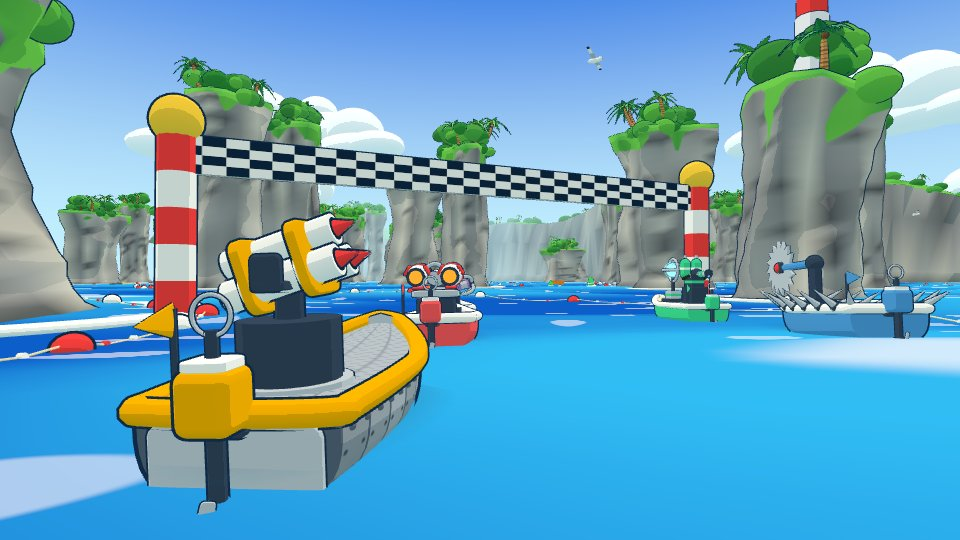
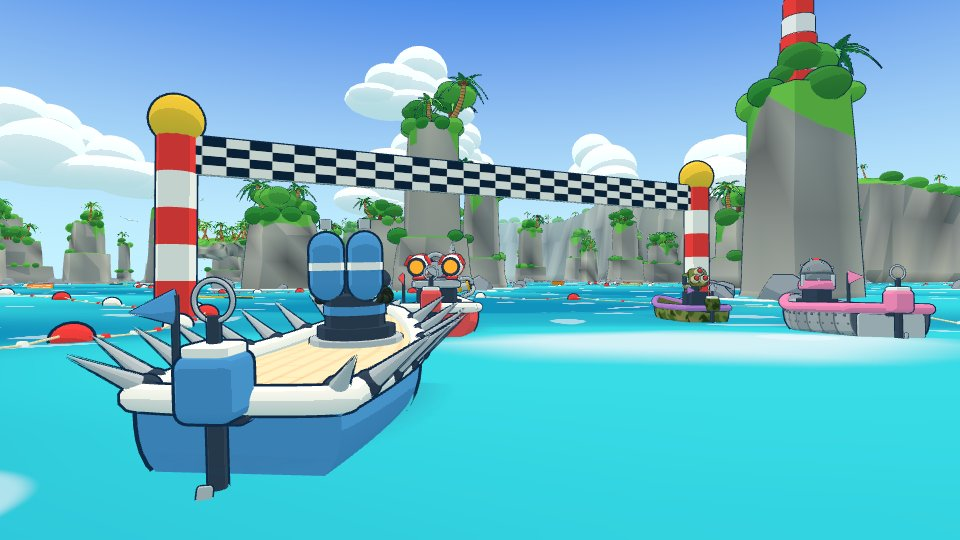
Restore the original Island Bay water and reshape the sea stacks into faceted tiered cliff plateaus with ledges and rubble

diff --git a/src/world.js b/src/world.js
@@ -818,7 +818,7 @@ function paintPillar(g, top) {
     const ny = nor.getY(i);
     const drape = 0.5 + 0.5 * Math.sin(Math.atan2(z, x) * 5 + x);
     const hang = THREE.MathUtils.smoothstep(y, top - 5 - 16 * drape * drape, top - 0.5) * drape * 0.85;
-    greens.push(Math.max(THREE.MathUtils.smoothstep(ny, 0.55, 0.75) * THREE.MathUtils.smoothstep(y, top - 3, top - 1), hang));
+    greens.push(Math.max(THREE.MathUtils.smoothstep(ny, 0.55, 0.75) * THREE.MathUtils.smoothstep(y, 2.5, 4), hang));
     const tone = streak > 0.2 ? GRASS_EDGE : GRASS_TONE;
     moss.push(tone.r, tone.g, tone.b);
   }
@@ -828,42 +828,55 @@ function paintPillar(g, top) {
   return g;
 }
 
-let pillarTemplate = null;
 function pillarGeometry(radius, height, rand) {
-  const waist = 0.84 + rand() * 0.14;
-  const waistAt = 0.3 + rand() * 0.3;
-  const flare = 1.04 + rand() * 0.18;
-  const ledges = 4 + rand() * 4;
-  const facets = 5 + Math.floor(rand() * 4);
-  const lean = new THREE.Vector2((rand() - 0.5) * radius * 0.5, (rand() - 0.5) * radius * 0.5);
-  const stretch = 0.75 + rand() * 0.5;
+  const sides = 6 + Math.floor(rand() * 4);
+  const stretch = 0.8 + rand() * 0.4;
   const turn = rand() * Math.PI;
-  const lumps = Array.from({ length: 5 }, () => ({ k: 1 + Math.floor(rand() * 5), p: rand() * 6, a: 0.04 + rand() * 0.1, v: rand() * 0.2 }));
-  const g = (pillarTemplate ??= mergeVertices(new THREE.CylinderGeometry(1, 1, 1, 16, 22).translate(0, 0.5, 0).deleteAttribute('normal').deleteAttribute('uv'))).clone();
-  const pos = g.attributes.position;
-  for (let i = 0; i < pos.count; i++) {
-    const x = pos.getX(i);
-    const t = pos.getY(i);
-    const z = pos.getZ(i);
-    const r0 = Math.hypot(x, z);
-    const a = Math.atan2(z, x);
-    let profile = 1 - (1 - waist) * Math.exp(-(((t - waistAt) / 0.28) ** 2));
-    profile *= 1 + (flare - 1) * THREE.MathUtils.smoothstep(t, 0.72, 0.97);
-    profile *= 1 + 0.25 * (1 - THREE.MathUtils.smoothstep(t, 0, 0.12));
-    let bump = 1;
-    for (const l of lumps) bump += Math.sin(a * l.k + l.p + t * height * l.v) * l.a;
-    bump += Math.sin(a * 11 + t * 3) * 0.03;
-    bump += (Math.abs(((a / (Math.PI * 2)) * facets + lumps[0].p + 10) % 1 - 0.5) - 0.25) * 0.12;
-    bump *= 1 - 0.045 * (((t * height) / ledges + Math.sin(a * 2 + lumps[1].p) * 0.3 + 10) % 1);
-    const rr = r0 * radius * profile * bump;
-    const lx = Math.cos(a) * rr * stretch;
-    const lz = Math.sin(a) * rr / stretch;
-    const shift = t * t;
-    let y = t * height - 2;
-    if (t > 0.999 && r0 < 0.999) y += Math.sin(x * 3 + z * 2) * 0.6;
-    pos.setXYZ(i, lx * Math.cos(turn) - lz * Math.sin(turn) + lean.x * shift, y, lx * Math.sin(turn) + lz * Math.cos(turn) + lean.y * shift);
+  const angles = Array.from({ length: sides }, (_, k) => ((k + (rand() - 0.5) * 0.55) / sides) * Math.PI * 2);
+  const radial = angles.map(() => 0.84 + rand() * 0.32);
+  const tiered = rand() < 0.65;
+  const ledge = 0.32 + rand() * 0.26;
+  const shrink = 0.7 + rand() * 0.14;
+  const taper = 0.8 + rand() * 0.1;
+  const rows = tiered
+    ? [[0, 1.14], [0.1, 1.06], [ledge * 0.55, 1.0], [ledge, 0.96], [ledge + 0.012, shrink], [ledge + (1 - ledge) * 0.55, shrink * 0.97], [1, shrink * 0.9]]
+    : [[0, 1.14], [0.1, 1.06], [0.42, 0.98], [0.74, 0.92], [1, taper]];
+  const span = height;
+  const ring = rows.map(([t, r]) =>
+    angles.map((a0, k) => {
+      const a = a0 + (rand() - 0.5) * 0.08;
+      const rr = radius * r * radial[k] * (1 + (rand() - 0.5) * 0.07);
+      const lx = Math.cos(a) * rr * stretch;
+      const lz = (Math.sin(a) * rr) / stretch;
+      return [lx * Math.cos(turn) - lz * Math.sin(turn), t * span - 2, lx * Math.sin(turn) + lz * Math.cos(turn)];
+    }),
+  );
+  const top = height - 2;
+  const positions = [];
+  const tri = (p, q, r) => positions.push(...p, ...q, ...r);
+  for (let r = 0; r < rows.length - 1; r++) {
+    for (let k = 0; k < sides; k++) {
+      const a = ring[r][k];
+      const b = ring[r][(k + 1) % sides];
+      const c = ring[r + 1][(k + 1) % sides];
+      const d = ring[r + 1][k];
+      tri(a, c, b);
+      tri(a, d, c);
+    }
   }
-  return { geometry: paintPillar(g, height - 2), top: new THREE.Vector3(lean.x, height - 2, lean.y), topRadius: radius * flare * 0.8, footprint: radius * 1.1 * Math.max(stretch, 1 / stretch) };
+  const cap = ring.at(-1);
+  const center = [cap.reduce((sum, v) => sum + v[0], 0) / sides, top + 0.3, cap.reduce((sum, v) => sum + v[2], 0) / sides];
+  for (let k = 0; k < sides; k++) tri(center, cap[(k + 1) % sides], cap[k]);
+  const g = new THREE.BufferGeometry();
+  g.setAttribute('position', new THREE.Float32BufferAttribute(positions, 3));
+  const capRadius = radius * (tiered ? shrink * 0.9 : taper) * Math.min(...radial);
+  return {
+    geometry: paintPillar(g, top),
+    top: new THREE.Vector3(center[0], top + 0.3, center[2]),
+    topRadius: capRadius * 0.95,
+    footprint: radius * 1.14 * Math.max(...radial) * Math.max(stretch, 1 / stretch),
+    ledge: tiered ? { y: ledge * span - 2, inner: radius * shrink, outer: radius * 0.96 * Math.min(...radial) } : null,
+  };
 }
 
 const CANOPY = ['moss', 'mossDark', 'jungle', 'jungleLight'];
@@ -909,6 +922,22 @@ function addPillar(batch, x, z, rand, { radius, height, plants = 1 }) {
   batch.add('foam', RING, mat(x, 0.2, z, pillar.footprint * 1.05, 6, pillar.footprint * 1.05));
   const top = pillar.top.clone().add(new THREE.Vector3(x, 0, z));
   if (plants) plantTop(batch, top.x, top.y, top.z, pillar.topRadius, rand, plants);
+  if (plants && pillar.ledge) {
+    const { y, inner, outer } = pillar.ledge;
+    for (let k = 0; k < 6; k++) {
+      const a = rand() * Math.PI * 2;
+      const d = (inner + outer) / 2;
+      const sz = 1.3 + rand() * 1.4;
+      batch.add(CANOPY[Math.floor(rand() * CANOPY.length)], LOW_SPHERE, mat(x + Math.cos(a) * d, y + sz * 0.3, z + Math.sin(a) * d, sz * 1.2, sz * 0.8, sz));
+    }
+  }
+  const rubble = 5 + Math.floor(rand() * 6);
+  for (let k = 0; k < rubble; k++) {
+    const a = rand() * Math.PI * 2;
+    const d = pillar.footprint * (0.88 + rand() * 0.16);
+    const sz = 1.4 + rand() * 2.6;
+    batch.add('rock', ROCK, mat(x + Math.cos(a) * d, 0.2 + rand() * 0.6, z + Math.sin(a) * d, sz, sz * (0.6 + rand() * 0.4), sz, rand(), rand() * 6, rand()));
+  }
   return { blob: { x, z, rx: pillar.footprint, rz: pillar.footprint, rot: 0 }, top, topRadius: pillar.topRadius, footprint: pillar.footprint };
 }
 
@@ -1304,7 +1333,6 @@ function createMarkerBuoy(kind) {
 }
 
 const BAY_SKY = { top: 0x1a78e6, horizon: SKY_HORIZON };
-const BAY_WATER = { deep: 0x0b5cc6, shallow: 0x2fb8ee };
 
 export function createWorld(scene, track) {
   if (track.map.arena) return createBayArena(scene, track.map.arena);
@@ -1318,7 +1346,7 @@ export function createWorld(scene, track) {
   sun.position.copy(SUN_DIR).multiplyScalar(100);
   scene.add(sun);
 
-  const water = createWater(BAY_WATER);
+  const water = createWater();
   scene.add(water.mesh);
 
   const rand = mulberry32(20261023);
@@ -1353,11 +1381,11 @@ export function createWorld(scene, track) {
       if (clearance < radius + 6) continue;
       if (!fits(x, z, radius)) continue;
       if (z > mainlandEdge(x) - radius - 14) continue;
-      const height = mesa ? 22 + rand() * 24 : 20 + radius * 2.4 + rand() * 28 + (clearance > 120 ? rand() * 25 : 0);
+      const height = mesa ? 18 + rand() * 20 : 10 + radius * (1.7 + rand() * 1.5) + (clearance > 120 ? rand() * 20 : 0);
       const pillar = addPillar(batch, x, z, rand, { radius, height });
       pillars.push({ x, z, r: radius });
       shores.push(pillar.blob);
-      if (height > 52 && radius > 7 && clearance < 90 && falls.length < 6 && rand() < 0.7) falls.push({ pillar, x, z, toward: Math.atan2(track.pz[near.idx] - z, track.px[near.idx] - x) });
+      if (height > 34 && radius > 9 && clearance < 90 && falls.length < 6 && rand() < 0.7) falls.push({ pillar, x, z, toward: Math.atan2(track.pz[near.idx] - z, track.px[near.idx] - x) });
     }
   }
   for (const f of falls) addWaterfall(batch, f.pillar, f.x, f.z, f.toward, rand);
@@ -1440,7 +1468,7 @@ function createBayArena(scene, arena) {
   const sun = new THREE.DirectionalLight(0xfff0d8, 2.4);
   sun.position.copy(SUN_DIR).multiplyScalar(100);
   scene.add(sun);
-  const water = createWater(BAY_WATER);
+  const water = createWater();
   scene.add(water.mesh);
 
   const rand = mulberry32(20261028);
@@ -1470,7 +1498,7 @@ function createBayArena(scene, arena) {
     const x = ex + (nx / nl) * (radius + 1);
     const z = ez + (nz / nl) * (radius + 1);
     if (z < mainlandEdge(x) - radius - 14) {
-      addPillar(batch, x, z, rand, { radius, height: 20 + radius * 2.2 + rand() * 22 });
+      addPillar(batch, x, z, rand, { radius, height: 12 + radius * (1.6 + rand() * 1.4) });
       wall.push({ x, z, r: radius });
     }
     a += (radius * 1.5) / Math.hypot(arena.rx * Math.sin(a), arena.rz * Math.cos(a));
@@ -1484,7 +1512,7 @@ function createBayArena(scene, arena) {
       if (reach(x, z) < 1 + (radius + 30) / arena.rz) continue;
       if (z > mainlandEdge(x) - radius - 14) continue;
       if (wall.some((o) => Math.hypot(o.x - x, o.z - z) < o.r + radius + 4)) continue;
-      addPillar(batch, x, z, rand, { radius, height: 22 + radius * 2.6 + rand() * 30 });
+      addPillar(batch, x, z, rand, { radius, height: 14 + radius * (1.8 + rand() * 1.6) });
       wall.push({ x, z, r: radius });
     }
   }
